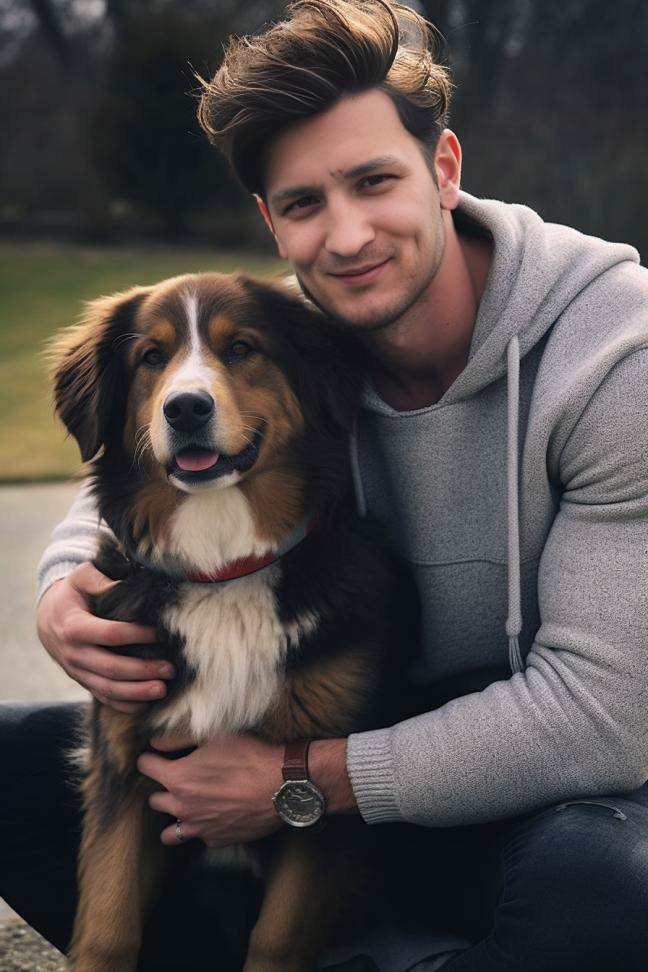
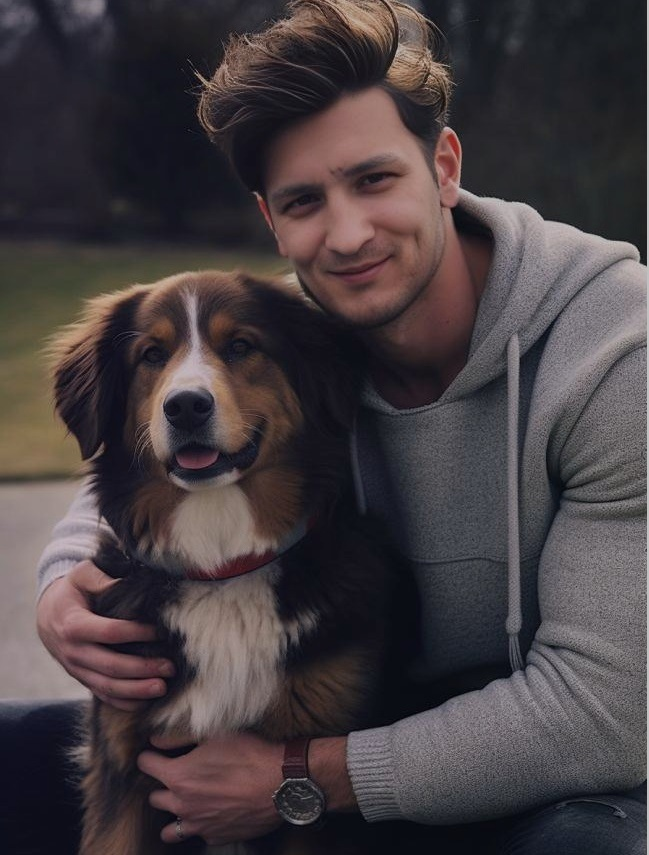
09.10 commit

diff --git a/css/main.css b/css/main.css
@@ -997,8 +997,7 @@ input[type="number"] {
 
   .contact__photo {
     width: 100%;
-    background-image: linear-gradient(rgba(24, 9, 51, 0.4), rgba(0, 0, 0, 0.4)),
-      url(../resources/new_photo.jpg);
+    background-image: url(../resources/new_photo.jpg);
     background-size: cover;
     background-repeat: no-repeat;
   }
